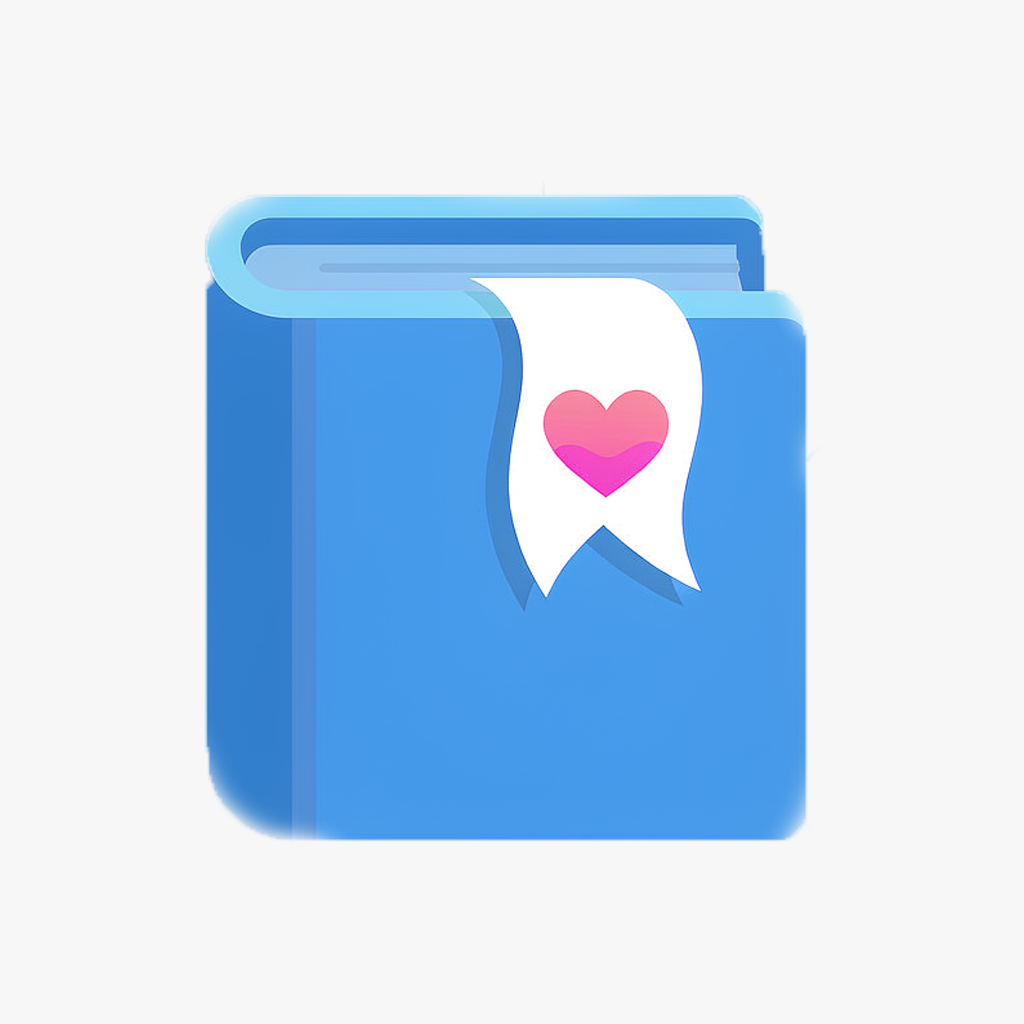
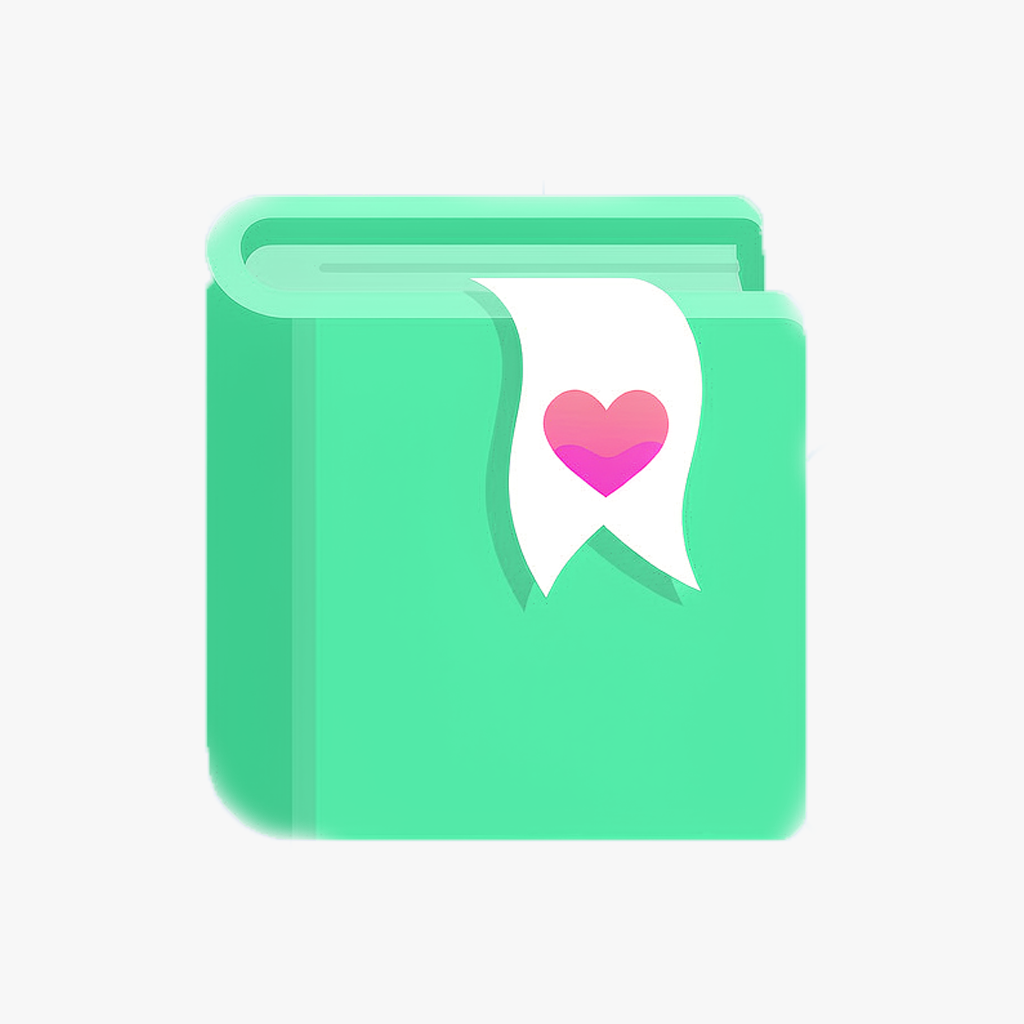
v4.8.10: 清除主题蓝色残留（头像改绘 + 框架默认色兜底）
用户反馈顶部与选框仍有蓝色。全局排查结论：代码内已无蓝色 hex，
残留来自两处：

1. 默认头像 assets/images/default_avatar.png 本身是蓝色书本插图
   （侧边栏顶部）。用 HSV 色相映射把全部蓝色像素改绘为竹青绿
   （hue 185~255° → 154°），粉色爱心与白色书签保留。
2. ThemeData 未设置 primarySwatch，默认 Colors.blue —— 复选框、
   开关、单选、进度条、选区高亮等所有未显式指定颜色的控件回落
   Material 蓝。补齐：自定义竹青 swatch + checkbox/radio/switch/
   textSelection/progressIndicator 五个显式主题。
3. CircleAvatar 照片分支补 backgroundColor，避免头像加载中露蓝。

全量 224 项测试通过，analyze 无 error/warning。

diff --git a/lib/main.dart b/lib/main.dart
@@ -8,6 +8,29 @@ void main() async {
   runApp(const DiaryApp());
 }
 
+/// 竹青主题色 #3E8E6D。
+const Color kPrimaryGreen = Color(0xFF3E8E6D);
+
+/// 由主题色生成 Material 色阶 swatch。
+///
+/// 必须设置 primarySwatch：不设置时默认是 Colors.blue，所有未显式指定
+/// 颜色的控件（复选框、开关、单选、进度条、选中高亮等）都会回落到
+/// Material 蓝 —— 这是「全局换成绿色后还有蓝色残留」的主要来源。
+MaterialColor createBambooSwatch(Color color) {
+  final swatch = <int, Color>{};
+  // 50/100/.../900：与纯白按比例混合生成浅阶，向黑压深生成深阶
+  for (final strength in [0.05, 0.1, 0.2, 0.3, 0.4, 0.5, 0.6, 0.7, 0.8, 0.9]) {
+    final f = 1 - strength;
+    swatch[(strength * 1000).round()] = Color.fromRGBO(
+      ((color.red * f) + (255 - 255 * f)).round(),
+      ((color.green * f) + (255 - 255 * f)).round(),
+      ((color.blue * f) + (255 - 255 * f)).round(),
+      1,
+    );
+  }
+  return MaterialColor(color.value, swatch);
+}
+
 class DiaryApp extends StatelessWidget {
   const DiaryApp({Key? key}) : super(key: key);
 
@@ -16,31 +39,65 @@ class DiaryApp extends StatelessWidget {
     return MaterialApp(
       title: '矢量日记',
       debugShowCheckedModeBanner: false,
-      theme: ThemeData(
-        primaryColor: const Color(0xFF3E8E6D),
-        scaffoldBackgroundColor: const Color(0xFFF5FAF7),
-        colorScheme: const ColorScheme.light(
-          primary: Color(0xFF3E8E6D),
-          secondary: Color(0xFF4B9C7D),
-          surface: Color(0xFFFFFFFF),
-        ),
-        appBarTheme: const AppBarTheme(
-          backgroundColor: Color(0xFF3E8E6D),
-          foregroundColor: Colors.white,
-          elevation: 0,
-          centerTitle: true,
-        ),
-        floatingActionButtonTheme: const FloatingActionButtonThemeData(
-          backgroundColor: Color(0xFF3E8E6D),
-          foregroundColor: Colors.white,
-        ),
-        textTheme: const TextTheme(
-          bodyText1: TextStyle(
-              color: Color(0xFF24382F), fontSize: 15, height: 1.6),
-          bodyText2: TextStyle(
-              color: Color(0xFF647A70), fontSize: 14, height: 1.6),
-        ),
-      ),
+      theme: () {
+        const green = kPrimaryGreen;
+        final swatch = createBambooSwatch(green);
+        return ThemeData(
+          primarySwatch: swatch,
+          primaryColor: green,
+          scaffoldBackgroundColor: const Color(0xFFF5FAF7),
+          colorScheme: const ColorScheme.light(
+            primary: green,
+            secondary: Color(0xFF4B9C7D),
+            surface: Color(0xFFFFFFFF),
+          ),
+          appBarTheme: const AppBarTheme(
+            backgroundColor: green,
+            foregroundColor: Colors.white,
+            elevation: 0,
+            centerTitle: true,
+          ),
+          floatingActionButtonTheme: const FloatingActionButtonThemeData(
+            backgroundColor: green,
+            foregroundColor: Colors.white,
+          ),
+          // 选框类控件：激活态统一竹青，未选中态走各自默认
+          checkboxTheme: CheckboxThemeData(
+            fillColor: MaterialStateProperty.resolveWith((states) =>
+                states.contains(MaterialState.selected) ? green : null),
+          ),
+          radioTheme: RadioThemeData(
+            fillColor: MaterialStateProperty.resolveWith((states) =>
+                states.contains(MaterialState.selected) ? green : null),
+          ),
+          switchTheme: SwitchThemeData(
+            thumbColor: MaterialStateProperty.resolveWith((states) =>
+                states.contains(MaterialState.selected) ? Colors.white : null),
+            trackColor: MaterialStateProperty.resolveWith((states) =>
+                states.contains(MaterialState.selected)
+                    ? green
+                    : const Color(0xFFC6D6CD)),
+          ),
+          // 文本选区/光标：Android 默认取 colorScheme.primary 已是绿，
+          // 这里显式钉死，iOS 等平台也不会再出现默认蓝
+          textSelectionTheme: TextSelectionThemeData(
+            cursorColor: green,
+            selectionColor: green.withOpacity(0.30),
+            selectionHandleColor: green,
+          ),
+          progressIndicatorTheme: const ProgressIndicatorThemeData(
+            color: green,
+            linearTrackColor: Color(0xFFE4F2EB),
+            circularTrackColor: Color(0xFFE4F2EB),
+          ),
+          textTheme: const TextTheme(
+            bodyText1: TextStyle(
+                color: Color(0xFF24382F), fontSize: 15, height: 1.6),
+            bodyText2: TextStyle(
+                color: Color(0xFF647A70), fontSize: 14, height: 1.6),
+          ),
+        );
+      }(),
       home: const HomeScreen(),
     );
   }

diff --git a/lib/widgets/avatar.dart b/lib/widgets/avatar.dart
@@ -10,6 +10,9 @@ Widget buildAppAvatar(UserProfile profile, {double radius = 40}) {
   if (profile.avatarPath.isNotEmpty && File(profile.avatarPath).existsSync()) {
     return CircleAvatar(
       radius: radius,
+      // 不设 backgroundColor 时 CircleAvatar 默认用 primaryColorLight，
+      // 头像图加载中/加载失败会露出底色，这里钉成白色避免露蓝
+      backgroundColor: Colors.white,
       backgroundImage: FileImage(File(profile.avatarPath)),
     );
   }

diff --git a/lib/utils/app_version.dart b/lib/utils/app_version.dart
@@ -8,7 +8,7 @@ class AppVersion {
   AppVersion._();
 
   /// 展示用版本号（设置页底部灰色小字）
-  static const String displayVersion = 'V4.8.9';
+  static const String displayVersion = 'V4.8.10';
 
   /// 是否为内测版（菜单侧边栏「内测版」铭牌）
   static const bool isBeta = true;
